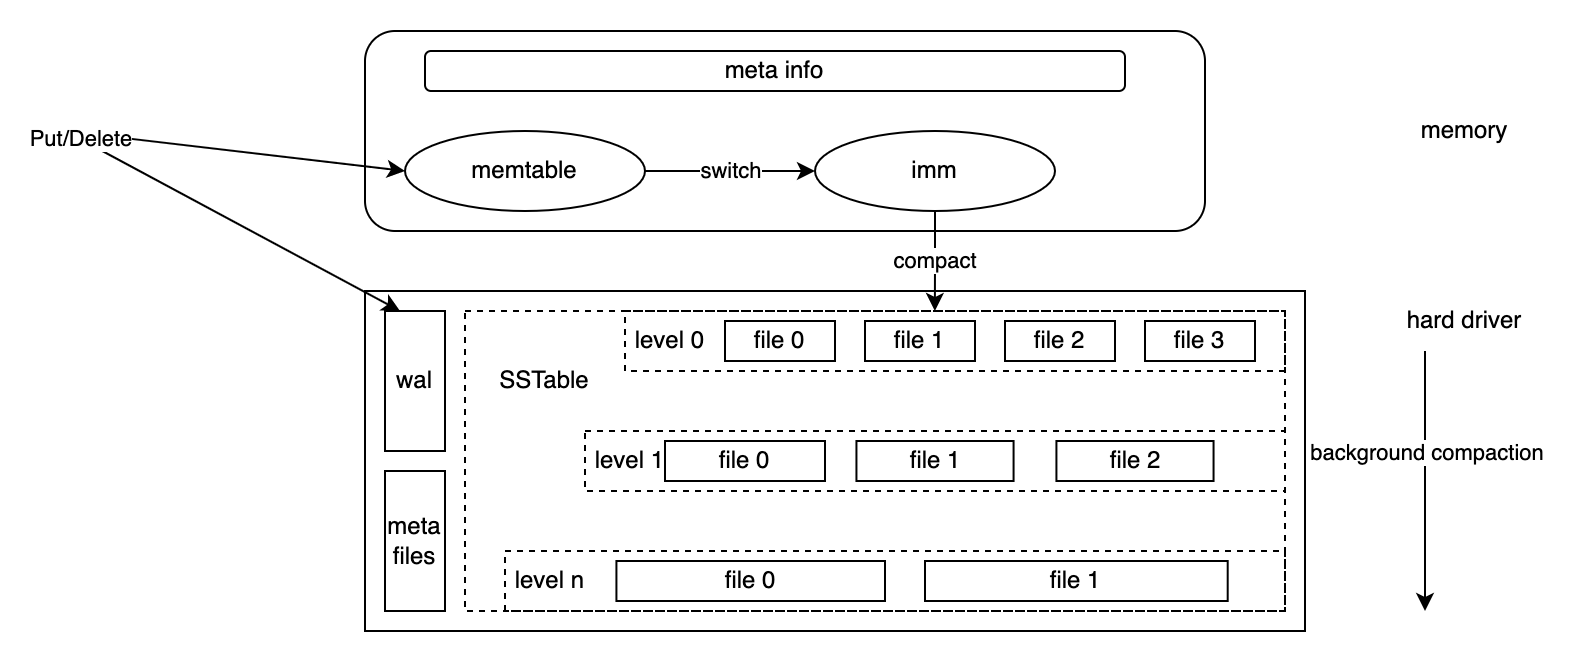
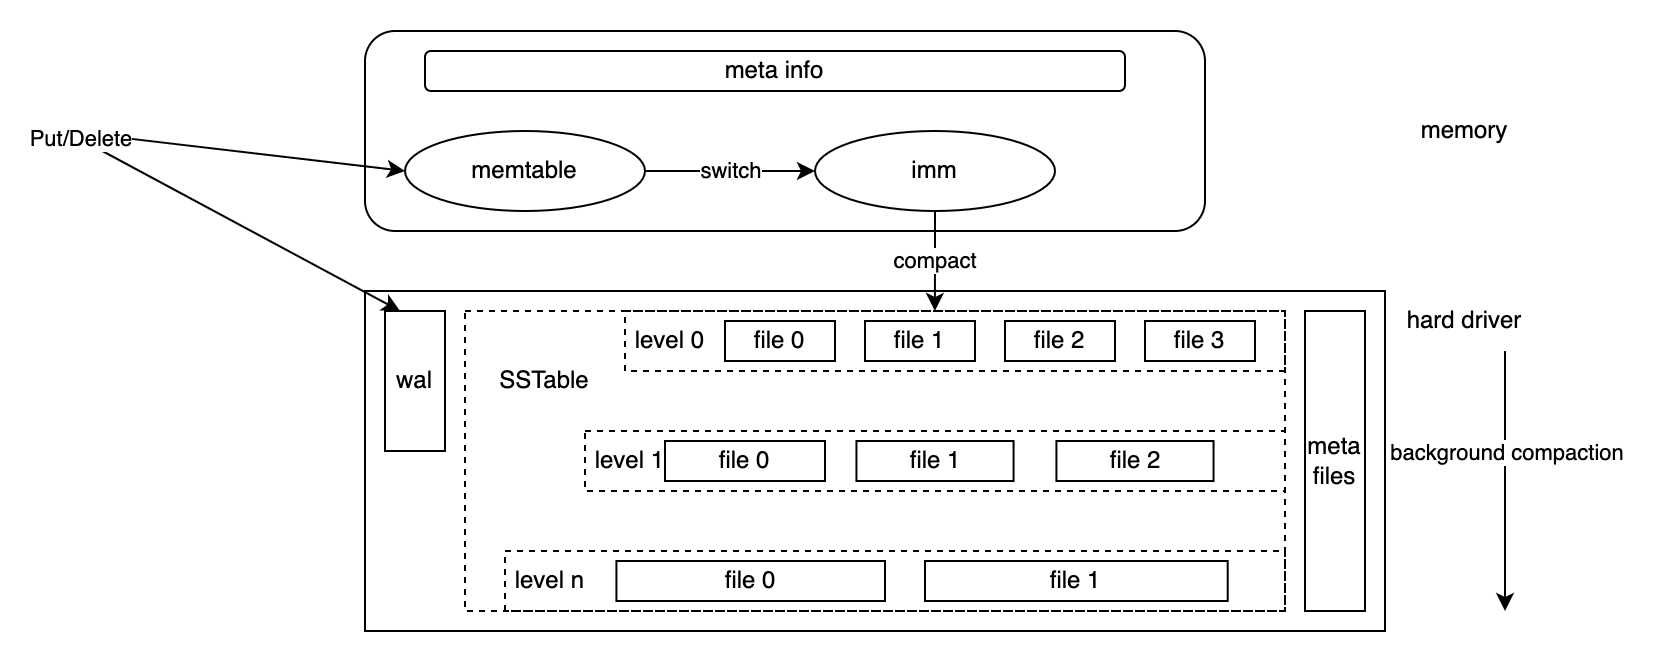
add introduction of leveldb files

diff --git a/_posts/2023-01-03-intro-to-files-of-leveldb.md b/_posts/2023-01-03-intro-to-files-of-leveldb.md
@@ -1,0 +1,39 @@
+---
+layout: post
+title: LevelDB 文件简介
+category: Database
+---
+
+LevelDB 是 Google 开源的一个用 C++ 语言开发的键值存储库，它提供了简单的 KV 的接口，通过这些接口能够实现高效的数据的存取。RocksDB 就是基于 LevelDB 开发的键值数据库，目前已经被广泛应用于各种新一代的分布式数据库中。
+
+__系列文章__
+
+[LevelDB 架构简介](/database/2023-01-03-intro-to-files-of-leveldb.md)
+
+## LevelDB 文件分类
+
+LevelDB 在运行过程中涉及到的文件比较多，主要可以分为几类：
+* WAL 文件
+* 元数据文件
+* SSTable 文件
+* 程序运行文件
+
+## WAL 文件
+WAL 文件记录着一系列 LevelDB 最近的更新（`Put`，`Delete`）,其数据与内存中的 Memtable 一致。当其记录的数据大小达到一个阈值（默认 4MB）时，Memtable 中的内容就会被转换为 Level 0 的 SSTable 文件。
+
+## 元数据文件
+元数据文件用于描述 LevelDB 数据分布的文件
+
+
+## SSTable 文件
+
+## 程序运行文件
+
+
+## 总结
+
+
+
+## Reference
+* [LevelDB Implementation notes](http://github.com/google/leveldb/blob/main/docs/impl.md)
+
